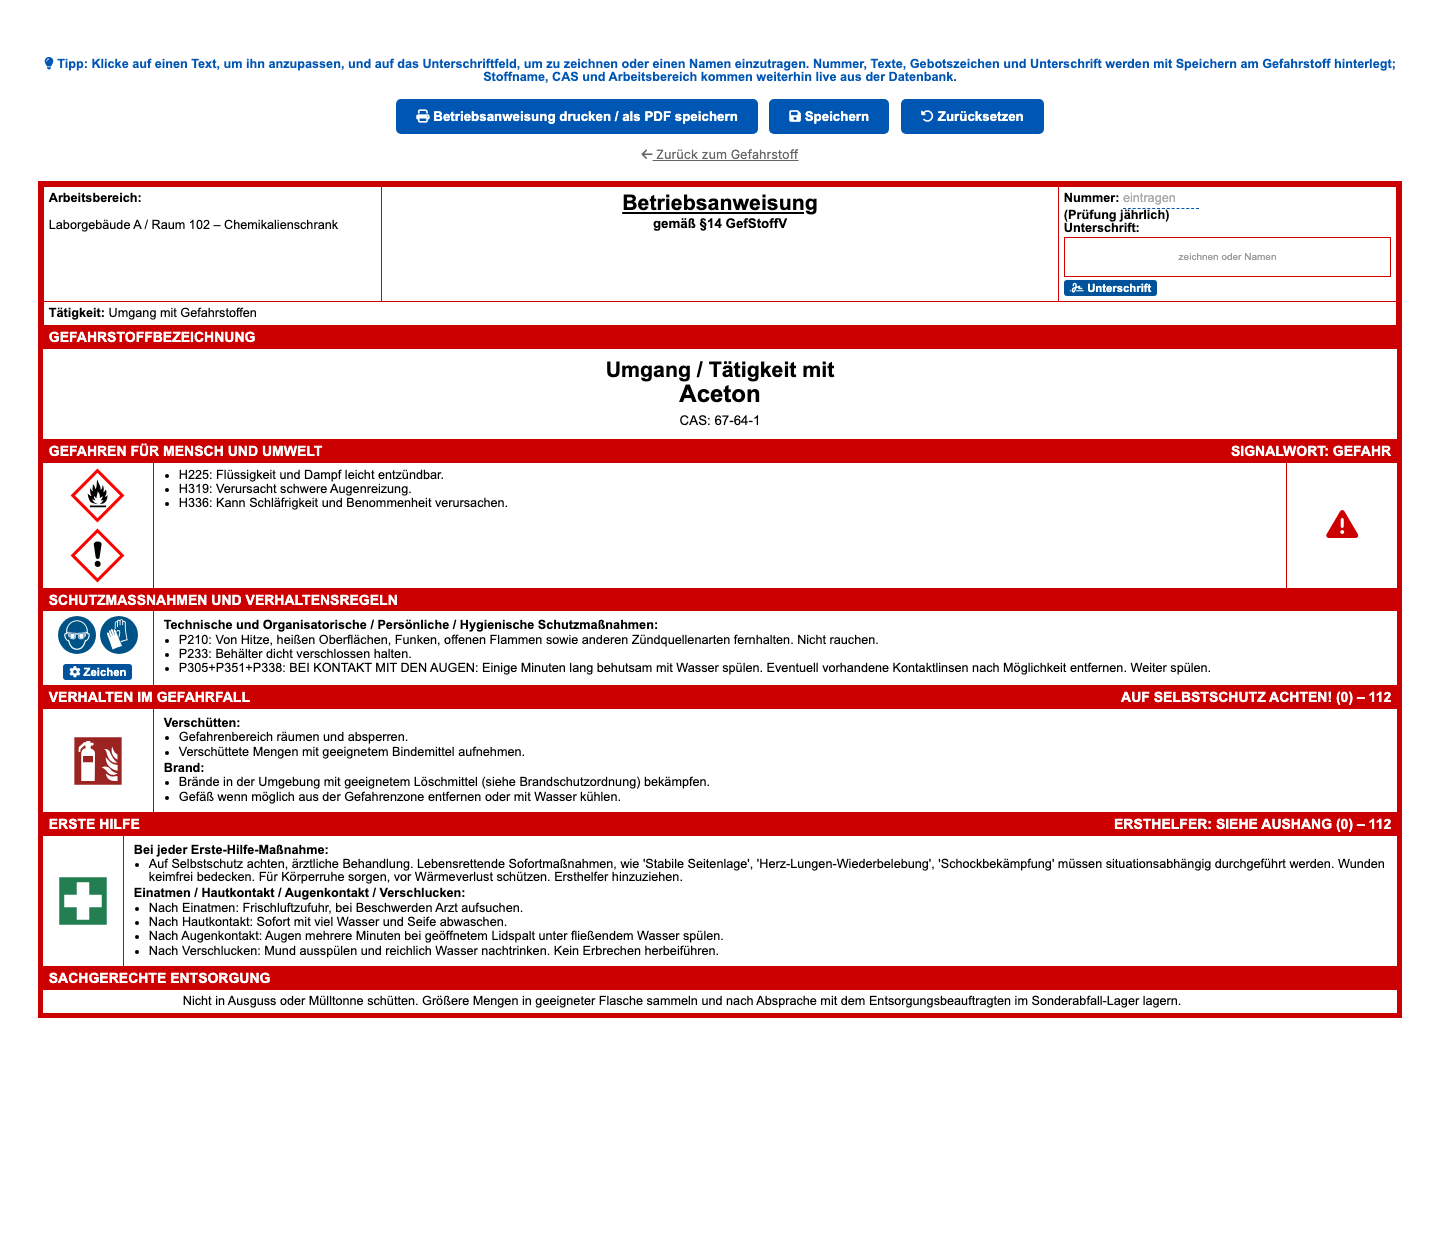
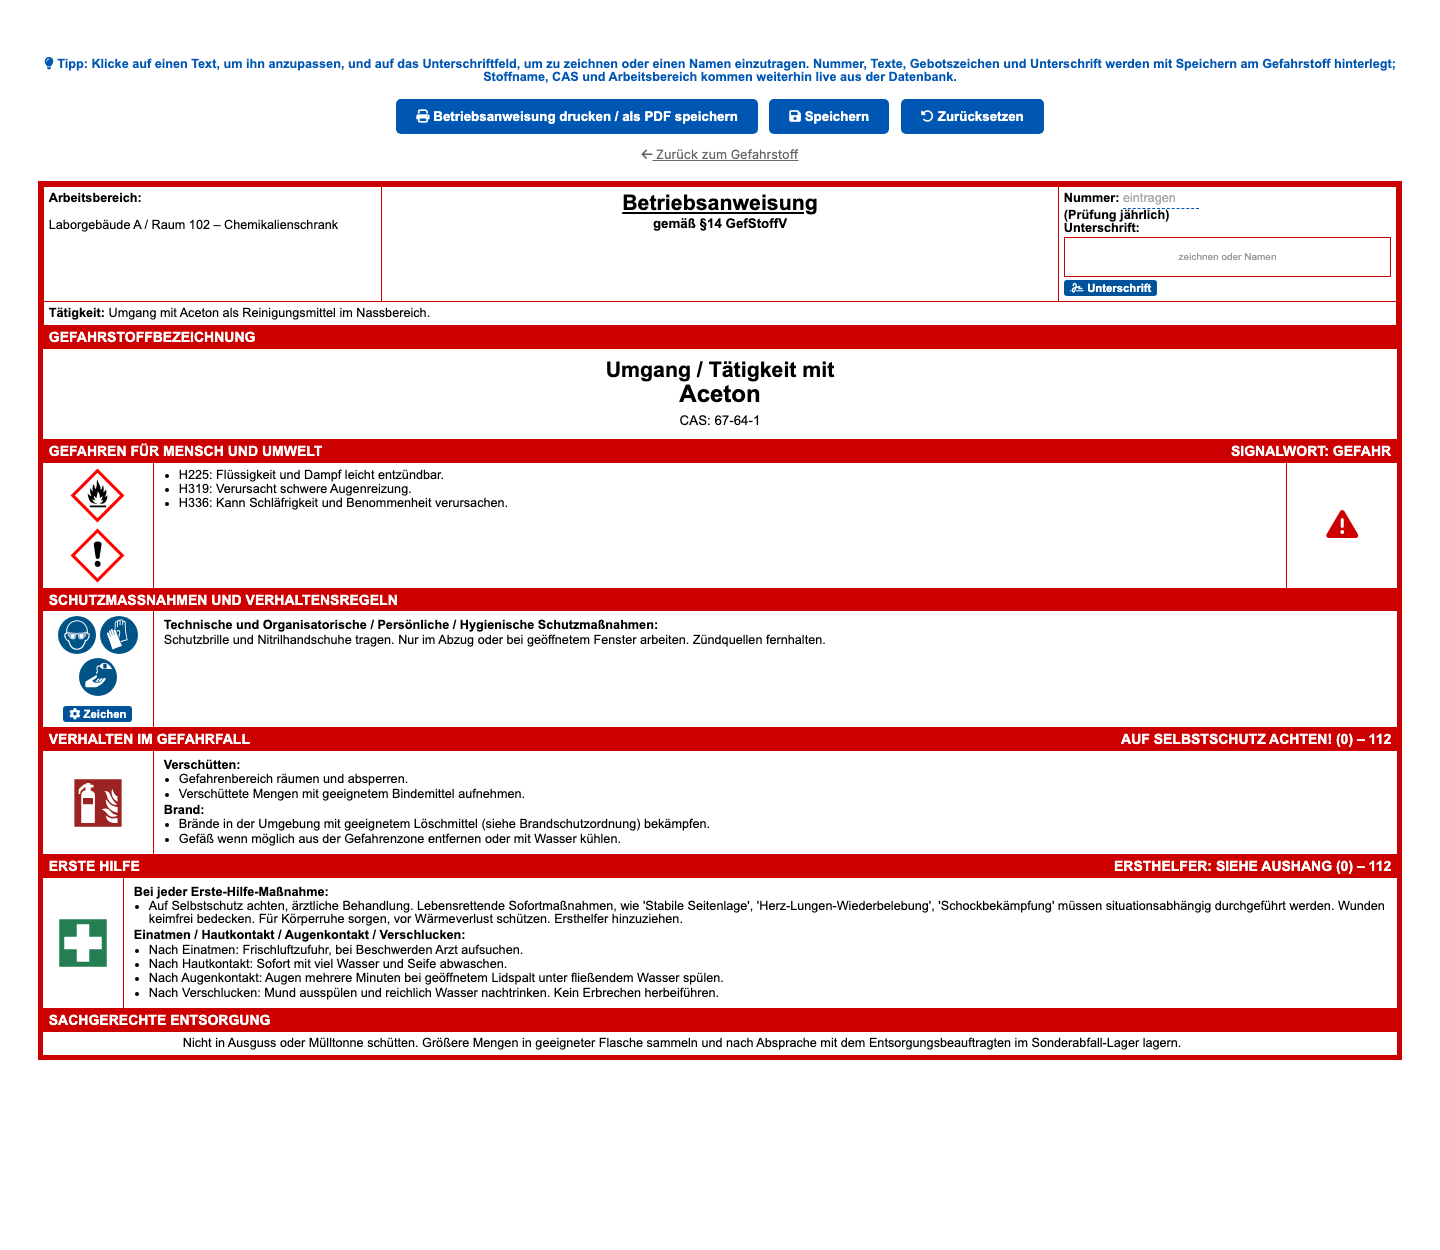
chore: Skript zum Erzeugen der Handbuchbilder ins Repo
werkzeuge/handbuchbilder.py baut eine isolierte Instanz mit plausiblen
Beispieldaten, rendert die Seiten ueber den Testclient und laesst Chrome die
Aufnahmen machen. Damit sind die Bilder in handbuch-bilder/ reproduzierbar
statt nachgebaut - das war die Einschraenkung, die im Commit 9f00253 noch
festgehalten werden musste.

Gegenueber dem Wegwerf-Skript in /tmp drei Aenderungen:
- Der Repo-Pfad wird aus dem Dateipfad abgeleitet, nicht hartkodiert.
- Die Seiten-IDs werden ueber Namen gesucht (Aceton, TRGS-510-Lager) statt
  ueber Zahlen; vorher hiess es /view/1 und /location/3 und haette sich bei
  jeder Aenderung an den Beispieldaten verschoben.
- Eine Sicherung bricht den Lauf ab, falls APP_DATA_DIR auf die echte
  data/gefahrstoffe.db zeigen sollte. Das ist genau die Falle, die in diesem
  Repo schon zugeschlagen hat (siehe testkonfiguration.py): der Engine steht
  beim Import, ein spaeter gesetztes APP_DATA_DIR wirkt nicht mehr.

Zwei Bilder haben sich dabei geaendert, beide zum Besseren:
- 06-betriebsanweisung: Im Wegwerf-Skript fehlte am Ende ein db.commit(), die
  Demo-Texte der Betriebsanweisung wurden also nie gespeichert und der
  Ausdruck zeigte die Standardtexte. Jetzt sind sie sichtbar, was das Bild
  erst aussagekraeftig macht.
- 00-login: nur Kantenglaettung, inhaltlich identisch (gemessen: groesster
  Helligkeitsunterschied 1 von 255 Stufen). Ein erneuter Lauf kann das
  wiederholen; der Umstand ist im Skript vermerkt.
[…]

Changed region(s): [[0.0, 0.4992, 1.0, 0.8736], [0.125, 0.2496, 0.1562, 0.2808]]

diff --git a/werkzeuge/handbuchbilder.py b/werkzeuge/handbuchbilder.py
@@ -1,0 +1,272 @@
+"""Erzeugt die Bildschirmaufnahmen für das Benutzerhandbuch (handbuch-bilder/).
+
+Baut eine **isolierte** Instanz der Anwendung mit plausiblen Beispieldaten
+(Gefahrstoffe, Standorte, Dokumente, Fristen, ein CMR-Fall), rendert die Seiten
+über den Testclient und lässt Chrome Aufnahmen davon machen.
+
+Aufrufen mit dem venv der Anwendung:
+
+    python3 werkzeuge/handbuchbilder.py
+
+Voraussetzungen: die Abhängigkeiten der Anwendung (Flask und so weiter) sowie
+Google Chrome unter dem üblichen macOS-Pfad. Ein abweichender Pfad lässt sich
+über die Umgebungsvariable CHROME setzen.
+
+Die Aufnahmen sind bewusst reproduzierbar: Wer die Oberfläche ändert, kann die
+Bilder neu erzeugen, statt sie nachzubauen. Danach das PDF neu erzeugen (siehe
+Kopf von handbuch-druck.css).
+
+Hinweis: Ein erneuter Lauf kann einzelne Bilder minimal verändern — gemessen
+rund 0,4 % der Pixel bei einem Helligkeitsunterschied von 1 von 255 Stufen.
+Das ist Kantenglättung, kein Inhaltsunterschied; die Aufnahmen sind mit dem
+Auge identisch. Wer keine solchen Diffs im Repo will, macht die Bilder nur
+dann neu, wenn sich die Oberfläche tatsächlich geändert hat.
+"""
+import os
+import shutil
+import subprocess
+import sys
+import tempfile
+from datetime import datetime, timedelta
+
+REPO = os.path.dirname(os.path.dirname(os.path.abspath(__file__)))
+ZIEL = os.path.join(REPO, 'handbuch-bilder')
+CHROME = os.environ.get(
+    'CHROME', '/Applications/Google Chrome.app/Contents/MacOS/Google Chrome')
+
+# Breite und Höhe der Aufnahmen. 1440 px Breite entspricht der Breite, in der
+# die Navigation unverdichtet sichtbar ist; die Höhen sind je Seite so gewählt,
+# dass der interessante Teil vollständig im Bild ist.
+SEITEN = [
+    ('00-login', '/login', 1440, 760, False),
+    ('01-dashboard', '/', 1440, 1000, True),
+    ('02-gefahrstoff-anlegen', '/add', 1440, 1700, True),
+    ('03-gefahrstoff-detail', '@aceton', 1440, 1000, True),
+    ('04-fristen', '/fristen', 1440, 900, True),
+    ('05-schrank-aushang', '@lager/print', 1440, 1150, True),
+    ('06-betriebsanweisung', '@aceton/ba', 1440, 1250, True),
+]
+
+
+def instanz_laden():
+    """Importiert die Anwendung mit einer isolierten Datenbank in /tmp.
+
+    ⚠ APP_DATA_DIR muss VOR dem Import gesetzt sein: main.py liest den Wert
+    beim Import und bildet daraus den Datenbankpfad. Ohne das schreibt dieses
+    Skript in die echte data/gefahrstoffe.db — genau der Fehler, den die
+    Testdateien bis v3.17 hatten (siehe testkonfiguration.py, das dasselbe für
+    die Tests tut).
+    """
+    daten = tempfile.mkdtemp(prefix='gsv-handbuch-')
+    os.environ['APP_DATA_DIR'] = daten
+    sys.path.insert(0, REPO)
+
+    import main as m
+
+    # Sicherung, falls die Zeile oben jemand entfernt oder umbaut: lieber
+    # abbrechen als in die echte Datenbank schreiben.
+    if os.path.abspath(m.app_data_dir) == os.path.join(REPO, 'data'):
+        raise SystemExit(
+            'ABBRUCH: APP_DATA_DIR zeigt auf die echte Datenbank '
+            f'({m.app_data_dir}). Es wird nichts geschrieben.')
+
+    m.app.config['WTF_CSRF_ENABLED'] = False
+    return m, daten
+
+
+def vor_jahren(heute, jahre):
+    """Datum n Jahre zurück; n darf ein Bruchteil sein (0.5 = ein halbes Jahr)."""
+    return heute - timedelta(days=int(round(jahre * 365.25)))
+
+
+def daten_anlegen(m, daten):
+    """Legt die Beispieldaten an. Gibt die IDs zurück, die für die Seiten
+    gebraucht werden (Aceton und das TRGS-510-Lager) — bewusst über den Namen
+    gesucht statt fest verdrahtet, damit es nicht von der Reihenfolge abhängt.
+    """
+    heute = datetime.utcnow().date()
+    db = m.db.session
+
+    with m.app.app_context():
+        m.db.create_all()
+        chef = m.User(username='m.mustermann', role='admin')
+        chef.set_password('handbuch123')
+        db.add(chef)
+        db.commit()
+
+        labor = m.Bereich(name='Laborgebäude A', owner_id=chef.id)
+        lager = m.Bereich(name='Zentrales Lager', owner_id=chef.id)
+        db.add_all([labor, lager])
+        db.commit()
+
+        raum101 = m.Unterbereich(name='Raum 101 – Nassbereich', bereich_id=labor.id)
+        raum102 = m.Unterbereich(name='Raum 102 – Chemikalienschrank', bereich_id=labor.id)
+        lager510 = m.Unterbereich(name='Gefahrstofflager (TRGS 510)', bereich_id=lager.id)
+        db.add_all([raum101, raum102, lager510])
+        db.commit()
+
+        # (Name, CAS, EG, Signalwort, Piktogramme, H-Sätze, P-Sätze, Lagerklasse,
+        #  Menge, Einheit, Standort-ID, SDB-Jahre zurück, Prüfung, Prüf-Jahre)
+        # Die Mischung ist Absicht: sie erzeugt alle Stufen der Fristenliste.
+        stoffe = [
+            ('Aceton', '67-64-1', '200-662-2', 'Gefahr', 'GHS02,GHS07',
+             'H225,H319,H336', 'P210,P233,P305+P351+P338', '3', 2.5, 'L',
+             raum102.id, 1.0, 'nein', 0.5),
+            ('Ethanol 96 %', '64-17-5', '200-578-6', 'Gefahr', 'GHS02',
+             'H225,H319', 'P210,P233,P280', '3', 5.0, 'L', raum101.id, 4.0, 'nie', 0),
+            ('2-Propanol', '67-63-0', '200-661-7', 'Gefahr', 'GHS02,GHS07',
+             'H225,H319,H336', 'P210,P261,P305+P351+P338', '3', 1.0, 'L',
+             raum102.id, 1.0, 'ja', 0.5),
+            ('Natriumhydroxid', '1310-73-2', '215-185-5', 'Gefahr', 'GHS05',
+             'H290,H314', 'P280,P305+P351+P338,P310', '8B', 500.0, 'g',
+             raum102.id, 2.0, 'nie', 0),
+            ('Salzsäure 32 %', '7647-01-0', '231-595-7', 'Gefahr', 'GHS05,GHS07',
+             'H290,H314,H335', 'P260,P280,P303+P361+P353', '8B', 1.0, 'L',
+             lager510.id, 6.0, 'nein', 3.5),
+            ('Wasserstoffperoxid 30 %', '7722-84-1', '231-765-0', 'Gefahr',
+             'GHS02,GHS05,GHS07', 'H272,H302,H315,H318',
+             'P210,P280,P305+P351+P338', '5.1B', 1.0, 'L', lager510.id, 3.5, 'ja', 1.0),
+            ('Formaldehyd-Lösung 37 %', '50-00-0', '200-001-8', 'Gefahr',
+             'GHS05,GHS06,GHS08', 'H301,H314,H317,H335,H341,H350',
+             'P201,P260,P280,P301+P310', '6.1D', 0.5, 'L', raum102.id, 1.0, 'nein', 1.0),
+        ]
+        for (name, cas, eg, wort, pik, h, p, lgk, menge, einheit, ort,
+             sdb_jahre, pruefung, pruef_jahre) in stoffe:
+            db.add(m.Gefahrstoff(
+                name=name, cas_nummer=cas, eg_nummer=eg, signalwort=wort,
+                # Piktogramme komma-getrennt, wie /add sie speichert
+                piktogramme=pik, h_saetze=h, p_saetze=p, lagerklasse=lgk,
+                menge=menge, mengeneinheit=einheit, unterbereich_id=ort,
+                user_id=chef.id, lagerort='Schrank 2, Fach A',
+                sicherheitsdatenblatt=f'{name.split()[0]}_SDB.pdf',
+                betriebsanweisung=f'{name.split()[0]}_BA.pdf',
+                sdb_datum=vor_jahren(heute, sdb_jahre) if sdb_jahre else None,
+                # 'nie' heißt: gar keine Prüfung dokumentiert (erscheint als Zahl)
+                substitutionspruefung=None if pruefung == 'nie' else pruefung,
+                substitution_geprueft_am=(None if pruefung == 'nie'
+                                          else vor_jahren(heute, pruef_jahre)),
+                ersatzstoff='Ethanol 70 %' if pruefung == 'ja' else None,
+                gefahrenkategorien=('Entzündbare Flüssigkeiten' if lgk == '3'
+                                    else 'Ätz-/Reizwirkung'),
+            ))
+
+        # Ohne Sicherheitsdatenblatt - zeigt "Kein SDB hinterlegt"
+        db.add(m.Gefahrstoff(name='Kaliumpermanganat', cas_nummer='7722-64-7',
+                             signalwort='Gefahr', piktogramme='GHS03,GHS07',
+                             h_saetze='H272,H302,H410', lagerklasse='5.1B',
+                             menge=250.0, mengeneinheit='g',
+                             unterbereich_id=lager510.id, user_id=chef.id))
+
+        # CMR-Stoff: wartet auf Freigabe und ist deshalb nicht sichtbar
+        db.add(m.Gefahrstoff(name='Chloroform', cas_nummer='67-66-3',
+                             eg_nummer='200-663-8', signalwort='Gefahr',
+                             piktogramme='GHS06,GHS08',
+                             h_saetze='H302,H315,H319,H331,H351,H361d',
+                             lagerklasse='6.1D', menge=0.5, mengeneinheit='L',
+                             unterbereich_id=raum102.id, user_id=chef.id,
+                             is_approved=False,
+                             sicherheitsdatenblatt='Chloroform_SDB.pdf',
+                             sdb_datum=vor_jahren(heute, 1)))
+        db.commit()
+
+        # Ein Standort lange nicht inventarisiert -> Inventurfrist
+        for s in m.Gefahrstoff.query.filter_by(unterbereich_id=lager510.id).all():
+            s.last_inventur_datum = datetime.utcnow() - timedelta(days=430)
+        for s in m.Gefahrstoff.query.filter_by(unterbereich_id=raum101.id).all():
+            s.last_inventur_datum = datetime.utcnow() - timedelta(days=30)
+        db.commit()
+
+        # Dokumente kopieren, damit die Links im Bild echt wirken
+        uploads = os.path.join(daten, 'uploads')
+        os.makedirs(uploads, exist_ok=True)
+        for quelle, feld in [('dummy_sdb.pdf', 'sicherheitsdatenblatt'),
+                             ('dummy_ba.pdf', 'betriebsanweisung')]:
+            for stoff in m.Gefahrstoff.query.all():
+                name = getattr(stoff, feld)
+                if name and not os.path.exists(os.path.join(uploads, name)):
+                    shutil.copy2(os.path.join(REPO, quelle),
+                                 os.path.join(uploads, name))
+
+        # Eine ausgefüllte Betriebsanweisung, damit der Ausdruck nicht leer ist.
+        # Die Codes müssen in BA_GEBOTSZEICHEN vorkommen - unbekannte filtert
+        # load_ba_gebotszeichen heraus (M016 etwa gibt es dort nicht).
+        aceton = m.Gefahrstoff.query.filter_by(name='Aceton').first()
+        aceton.ba_gebotszeichen = 'M004,M009,M022'   # Augen, Hände, Hautschutz
+        aceton.ba_texte = (
+            '{"ba_taetigkeit": "Umgang mit Aceton als Reinigungsmittel im '
+            'Nassbereich.", "ba_schutzmassnahmen": "Schutzbrille und '
+            'Nitrilhandschuhe tragen. Nur im Abzug oder bei geöffnetem Fenster '
+            'arbeiten. Zündquellen fernhalten."}')
+        db.commit()
+
+        aceton_id = aceton.id
+        lager_id = m.Unterbereich.query.filter_by(
+            name='Gefahrstofflager (TRGS 510)').first().id
+        print(f"Beispieldaten: {m.Gefahrstoff.query.count()} Gefahrstoffe, "
+              f"{m.Bereich.query.count()} Bereiche, "
+              f"{m.Unterbereich.query.count()} Standorte")
+
+    return aceton_id, lager_id
+
+
+def pfad_aufloesen(kuerzel, aceton_id, lager_id):
+    """Ersetzt die Platzhalter in SEITEN durch echte Adressen."""
+    return {
+        '@aceton': f'/view/{aceton_id}',
+        '@aceton/ba': f'/gefahrstoff/{aceton_id}/betriebsanweisung',
+        '@lager/print': f'/location/{lager_id}/print',
+    }.get(kuerzel, kuerzel)
+
+
+def aufnahmen_machen(m, aceton_id, lager_id, arbeitsverzeichnis):
+    """Rendert die Seiten und lässt Chrome Aufnahmen machen."""
+    client = m.app.test_client()
+    client.post('/login',
+                data={'username': 'm.mustermann', 'password': 'handbuch123'},
+                follow_redirects=True)
+
+    os.makedirs(ZIEL, exist_ok=True)
+    for name, kuerzel, breite, hoehe, eingeloggt in SEITEN:
+        pfad = pfad_aufloesen(kuerzel, aceton_id, lager_id)
+        c = client if eingeloggt else m.app.test_client()
+        antwort = c.get(pfad)
+        if antwort.status_code != 200:
+            print(f"  {name}: HTTP {antwort.status_code} — übersprungen")
+            continue
+
+        # Statische Dateien auf file:// umbiegen: die Seite wird aus einer
+        # Datei geladen, nicht über den Server, sonst fehlen CSS und Schriften.
+        html = antwort.get_data(as_text=True)
+        html = html.replace('href="/static/', f'href="file://{REPO}/static/')
+        html = html.replace('src="/static/', f'src="file://{REPO}/static/')
+        quelle = os.path.join(arbeitsverzeichnis, f'{name}.html')
+        with open(quelle, 'w', encoding='utf-8') as f:
+            f.write(html)
+
+        ziel = os.path.join(ZIEL, f'{name}.png')
+        subprocess.run(
+            [CHROME, '--headless=new', '--disable-gpu', '--no-sandbox',
+             f'--window-size={breite},{hoehe}', '--virtual-time-budget=4000',
+             f'--screenshot={ziel}', f'file://{quelle}'],
+            capture_output=True, timeout=120)
+        groesse = os.path.getsize(ziel) if os.path.exists(ziel) else 0
+        print(f"  {name}: {breite}x{hoehe}, {groesse // 1024} KB")
+
+
+def main():
+    if not os.path.exists(CHROME):
+        raise SystemExit(
+            f'Chrome nicht gefunden unter {CHROME}. Pfad über die '
+            'Umgebungsvariable CHROME setzen.')
+
+    m, daten = instanz_laden()
+    arbeitsverzeichnis = tempfile.mkdtemp(prefix='gsv-handbuch-html-')
+    print(f"Isolierte Instanz unter {daten}")
+    aceton_id, lager_id = daten_anlegen(m, daten)
+    aufnahmen_machen(m, aceton_id, lager_id, arbeitsverzeichnis)
+    print(f"\nFertig. Bilder in {ZIEL}")
+    print("PDF neu erzeugen: siehe Kopf von handbuch-druck.css")
+
+
+if __name__ == '__main__':
+    main()
